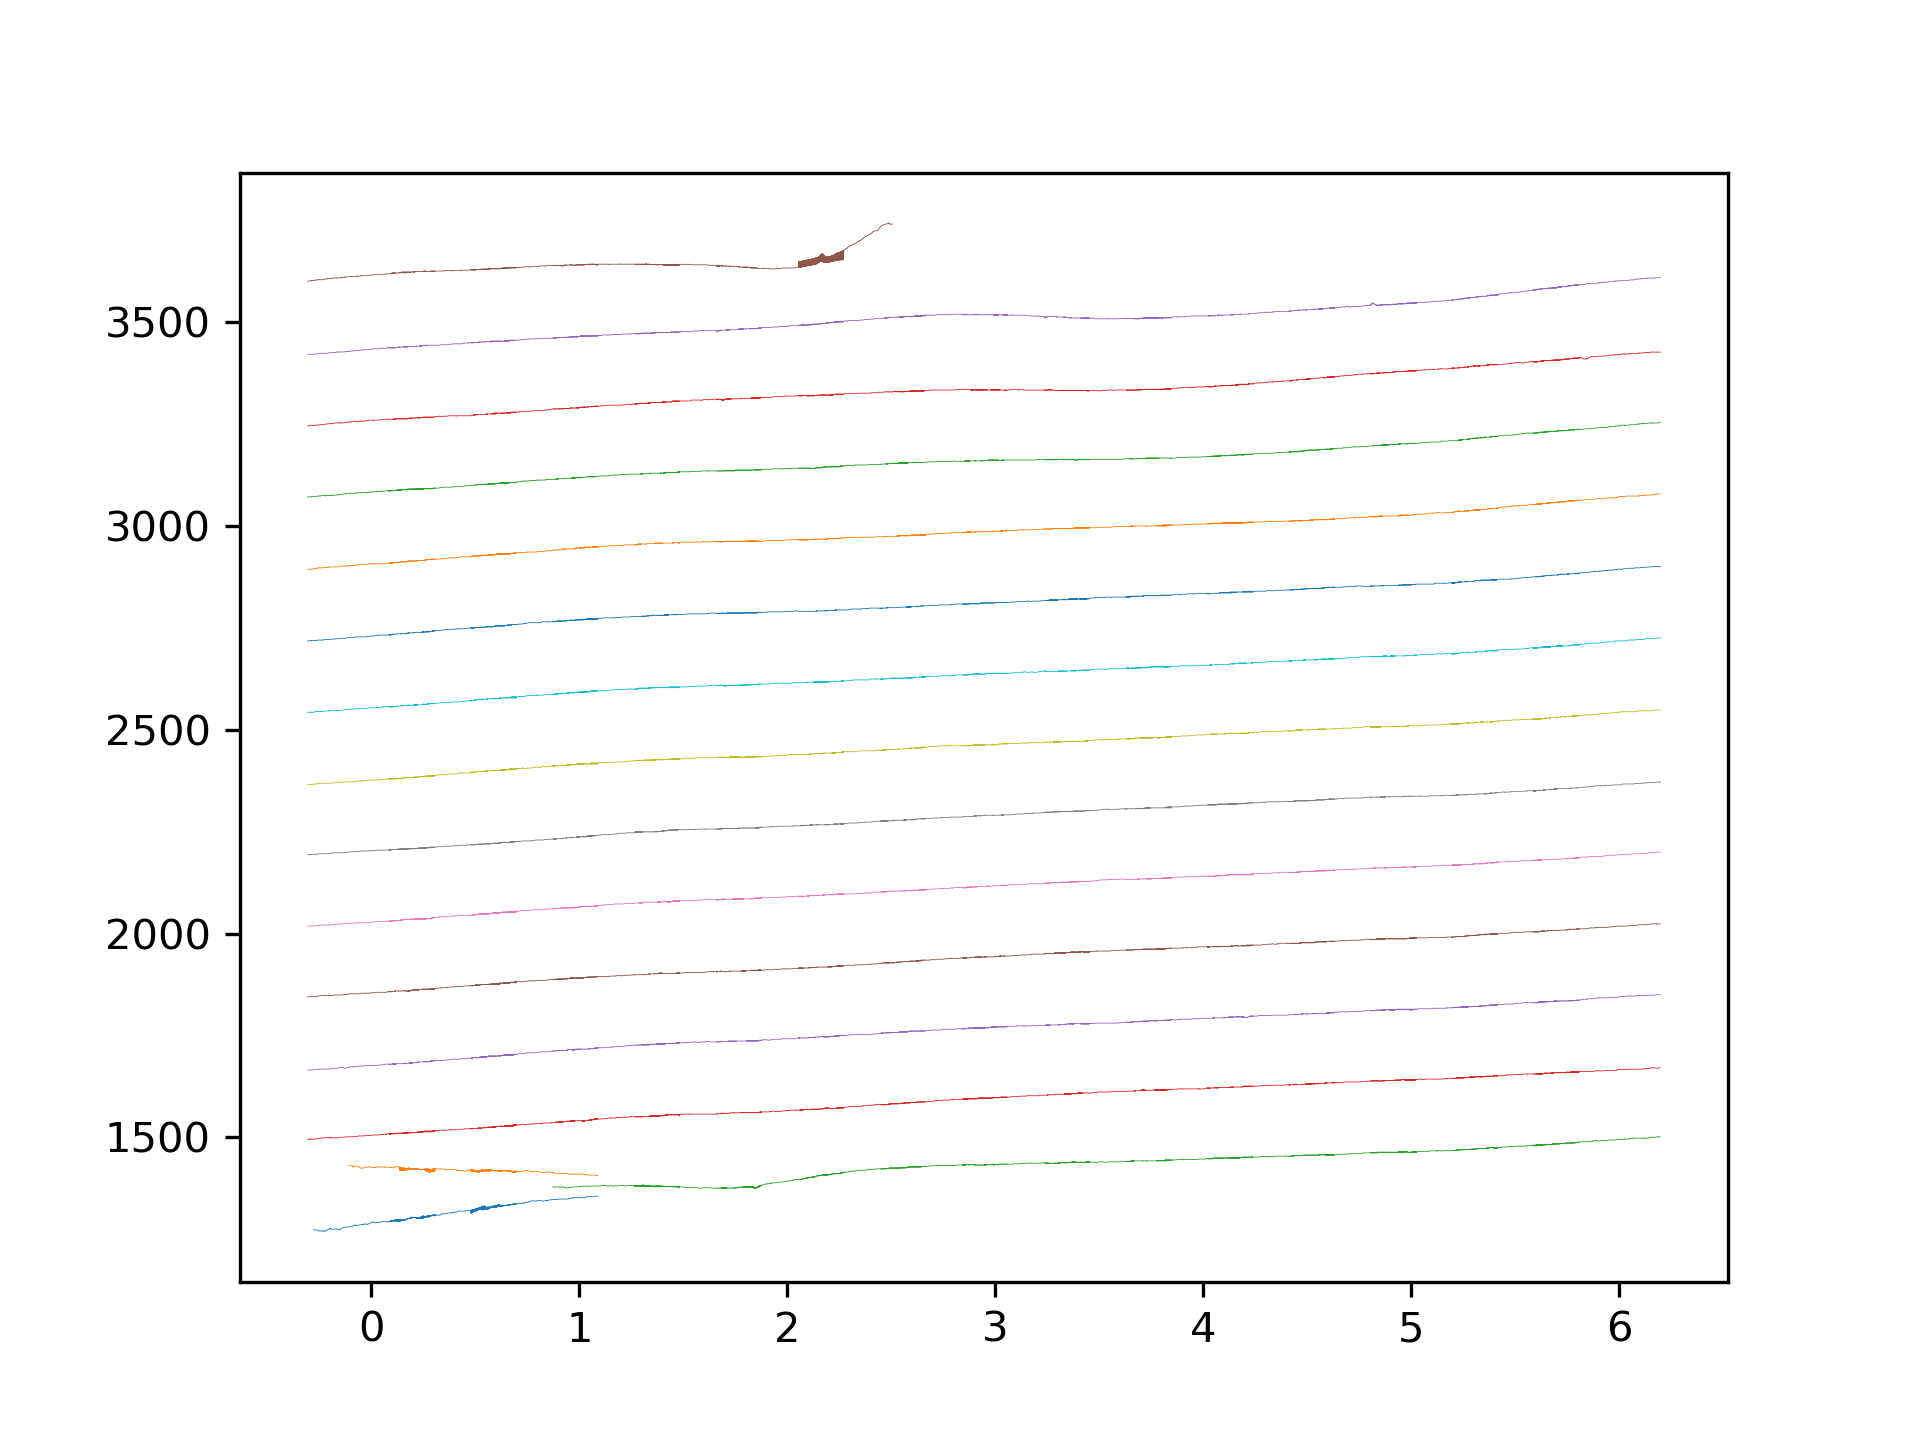
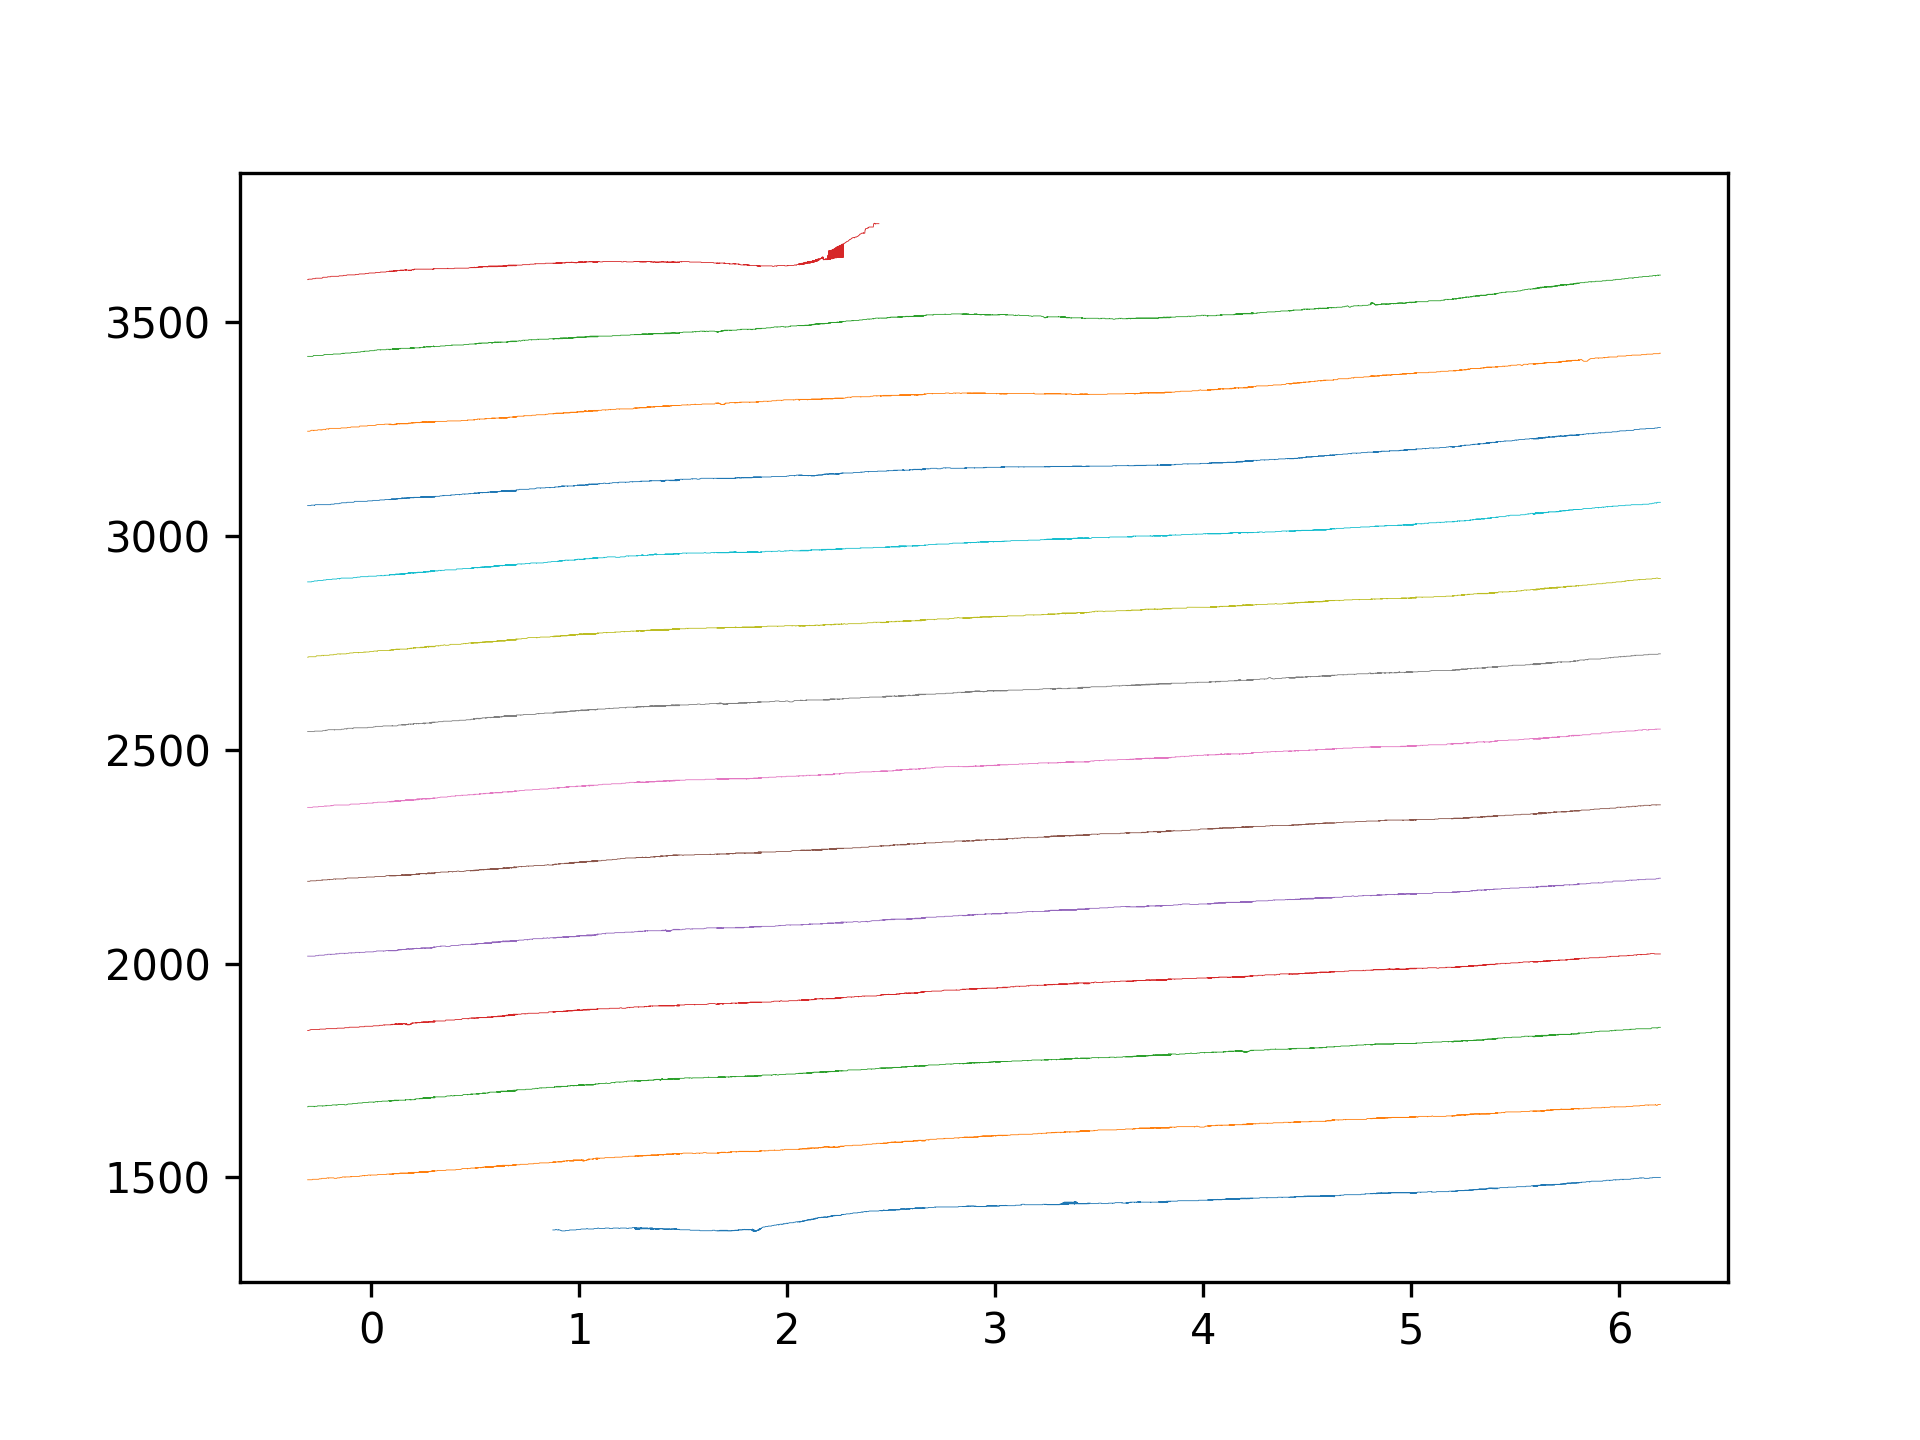
Filtering improvements

diff --git a/sectorImage/core/image.py b/sectorImage/core/image.py
@@ -165,7 +165,8 @@ class Image:
         # print('Blurring')
         # Gaussian Blur to remove fast features
 
-        cv2.GaussianBlur(src=matrix, ksize=(0, 3), dst=proc, sigmaX=3, sigmaY=0)
+        cv2.GaussianBlur(src=matrix, ksize=(15, 3), dst=proc, sigmaX=1.5, sigmaY=10)
+        ndimage.maximum_filter(proc, size=(5, 15), output=proc)
         # cv2.GaussianBlur(src=matrix[:, :start_range], ksize=(3, 0), dst=start_search, sigmaX=0, sigmaY=3)
 
         # cv2.GaussianBlur(src=matrix[:, start_range:], ksize=(31, 11), dst=end_search, sigmaX=0, sigmaY=0.1)
@@ -173,7 +174,10 @@ class Image:
         end_search = matrix[:, start_range:]
         # print('Convolving')
         # Convolving with Prewitt kernel in x-direction
-        prewitt_kernel_x = np.array([[1, 0, -1], [1, 0, -1], [1, 0, -1]])
+        prewitt_kernel_x = np.tile([-1, 0, 1], (15, 1))
+        # prewitt_kernel_x = np.array([[1, 0, -1], [2, 0, -2], [1, 0, -1]])
+        # print(prewitt_kernel_x)
+        # prewitt_kernel_x = np.array([[1, 0, -1], [1, 0, -1], [1, 0, -1]])
         kernel_y_width = 15
         prewitt_kernel_y = np.array([[1] * kernel_y_width, [0] *
                                      kernel_y_width, [-1] * kernel_y_width])
@@ -194,13 +198,12 @@ class Image:
         cv2.filter2D(src=end_search, kernel=prewitt_kernel_y, dst=end_search, ddepth=-1)
 
         cv2.filter2D(src=proc, kernel=prewitt_kernel_x, dst=proc, ddepth=-1)
-        cv2.GaussianBlur(src=proc, ksize=(11, 0), dst=proc, sigmaX=0, sigmaY=5)
+        cv2.GaussianBlur(src=proc, ksize=(11, 3), dst=proc, sigmaX=0, sigmaY=5)
 
         np.abs(start_search, out=start_search)
         np.abs(end_search, out=end_search)
 
         np.abs(proc, out=proc)
-        filtered = np.copy(proc)
 
         start_amp = start_search.max()
         start_idx = np.unravel_index(start_search.argmax(), start_search.shape)
@@ -221,8 +224,10 @@ class Image:
         proc_std = np.std(proc)
 
         thresh = proc_mean + thresh_std * proc_std
+        thresh = 50.0
         # thresh = proc_mean
         # thresh = 0.1
+
         cv2.threshold(src=proc, dst=proc, thresh=thresh, maxval=1, type=cv2.THRESH_BINARY)
 
         proc = proc.astype(np.uint8, copy=False)
@@ -233,7 +238,7 @@ class Image:
         n_labels, labels, l_stats, l_centroids = cv2.connectedComponentsWithStats(image=proc_inv, connectivity=4)
         # The maximum number of pixels in a noise field
         # Everything larger is considered to be background
-        fieldsize = 1e4
+        fieldsize = 2e4
         # Label background fields
         gaps = []
         for i, stat in enumerate(l_stats):
@@ -249,12 +254,14 @@ class Image:
 
         # Combine foreground noise with with thresholded image
         cv2.bitwise_or(src1=proc, src2=labels, dst=proc)
+        filtered = np.copy(proc)
         # plot = True
         if plot:
             print('Plotting')
             fig = plt.figure()
             ax = fig.add_subplot(111)
             ax.imshow(filtered)
+            # ax.plot(filtered[0])
             ax.set_aspect('auto')
             ax.set_xlabel('Radius [px]')
             ax.set_ylabel('Angle [idx]')

diff --git a/applied/main.py b/applied/main.py
@@ -11,9 +11,9 @@ from pair import Pair
 def main():
     s = Sequence(offsite=True)
     s.prime()
-    #pair = s.measure(n=16)
-    # pair.store()
-    pair = Pair('CSAT_0.h5', fromFile=True, corrections=True)
+    pair = s.measure(n=16)
+    pair.store()
+    # pair = Pair('CSAT_0.h5', fromFile=True, corrections=True)
     pair.plot()
     s.disable()
 
